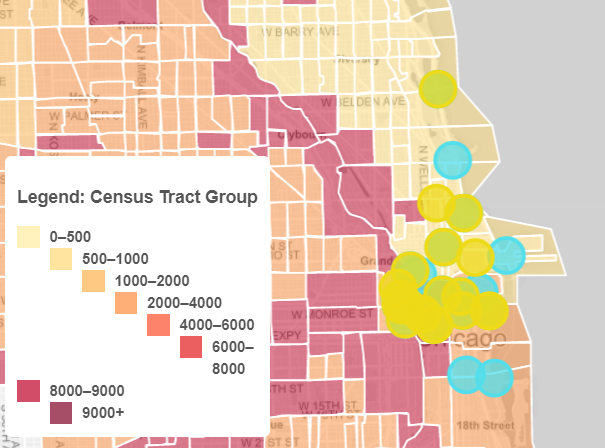
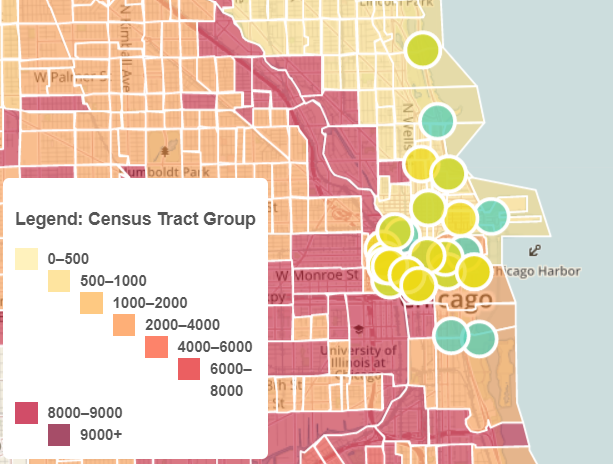
map markers

diff --git a/static/js/logic.js b/static/js/logic.js
@@ -148,7 +148,7 @@ var departure_list = [
 // Loop through the cities array 
 for (var i = 0; i < departure_list.length; i++) {
   var station = departure_list[i];
-  L.circle(station.location,{color: '#57CFB5', fillColor: '#57CFB5', fillOpacity: 0.75, radius: 400})
+  L.circle(station.location,{color: 'white', fillColor: '#57CFB5', fillOpacity: 0.75, radius: 400})
     .bindPopup("<h3>" + station.name + "</h3>")
     .addTo(departure_stations);
 }
@@ -180,7 +180,7 @@ var destination_list = [
 // Loop through the cities array 
 for (var i = 0; i < destination_list.length; i++) {
   var station = destination_list[i];
-  L.circle(station.location,{color:"#EEDA17",fillColor: "#EEDA17",fillOpacity: 0.75,radius: 400})
+  L.circle(station.location,{color:"white",fillColor: "#EEDA17",fillOpacity: 0.75,radius: 400})
     .bindPopup("<h3>" + station.name + "</h3>")
     .addTo(destination_stations);
 }
